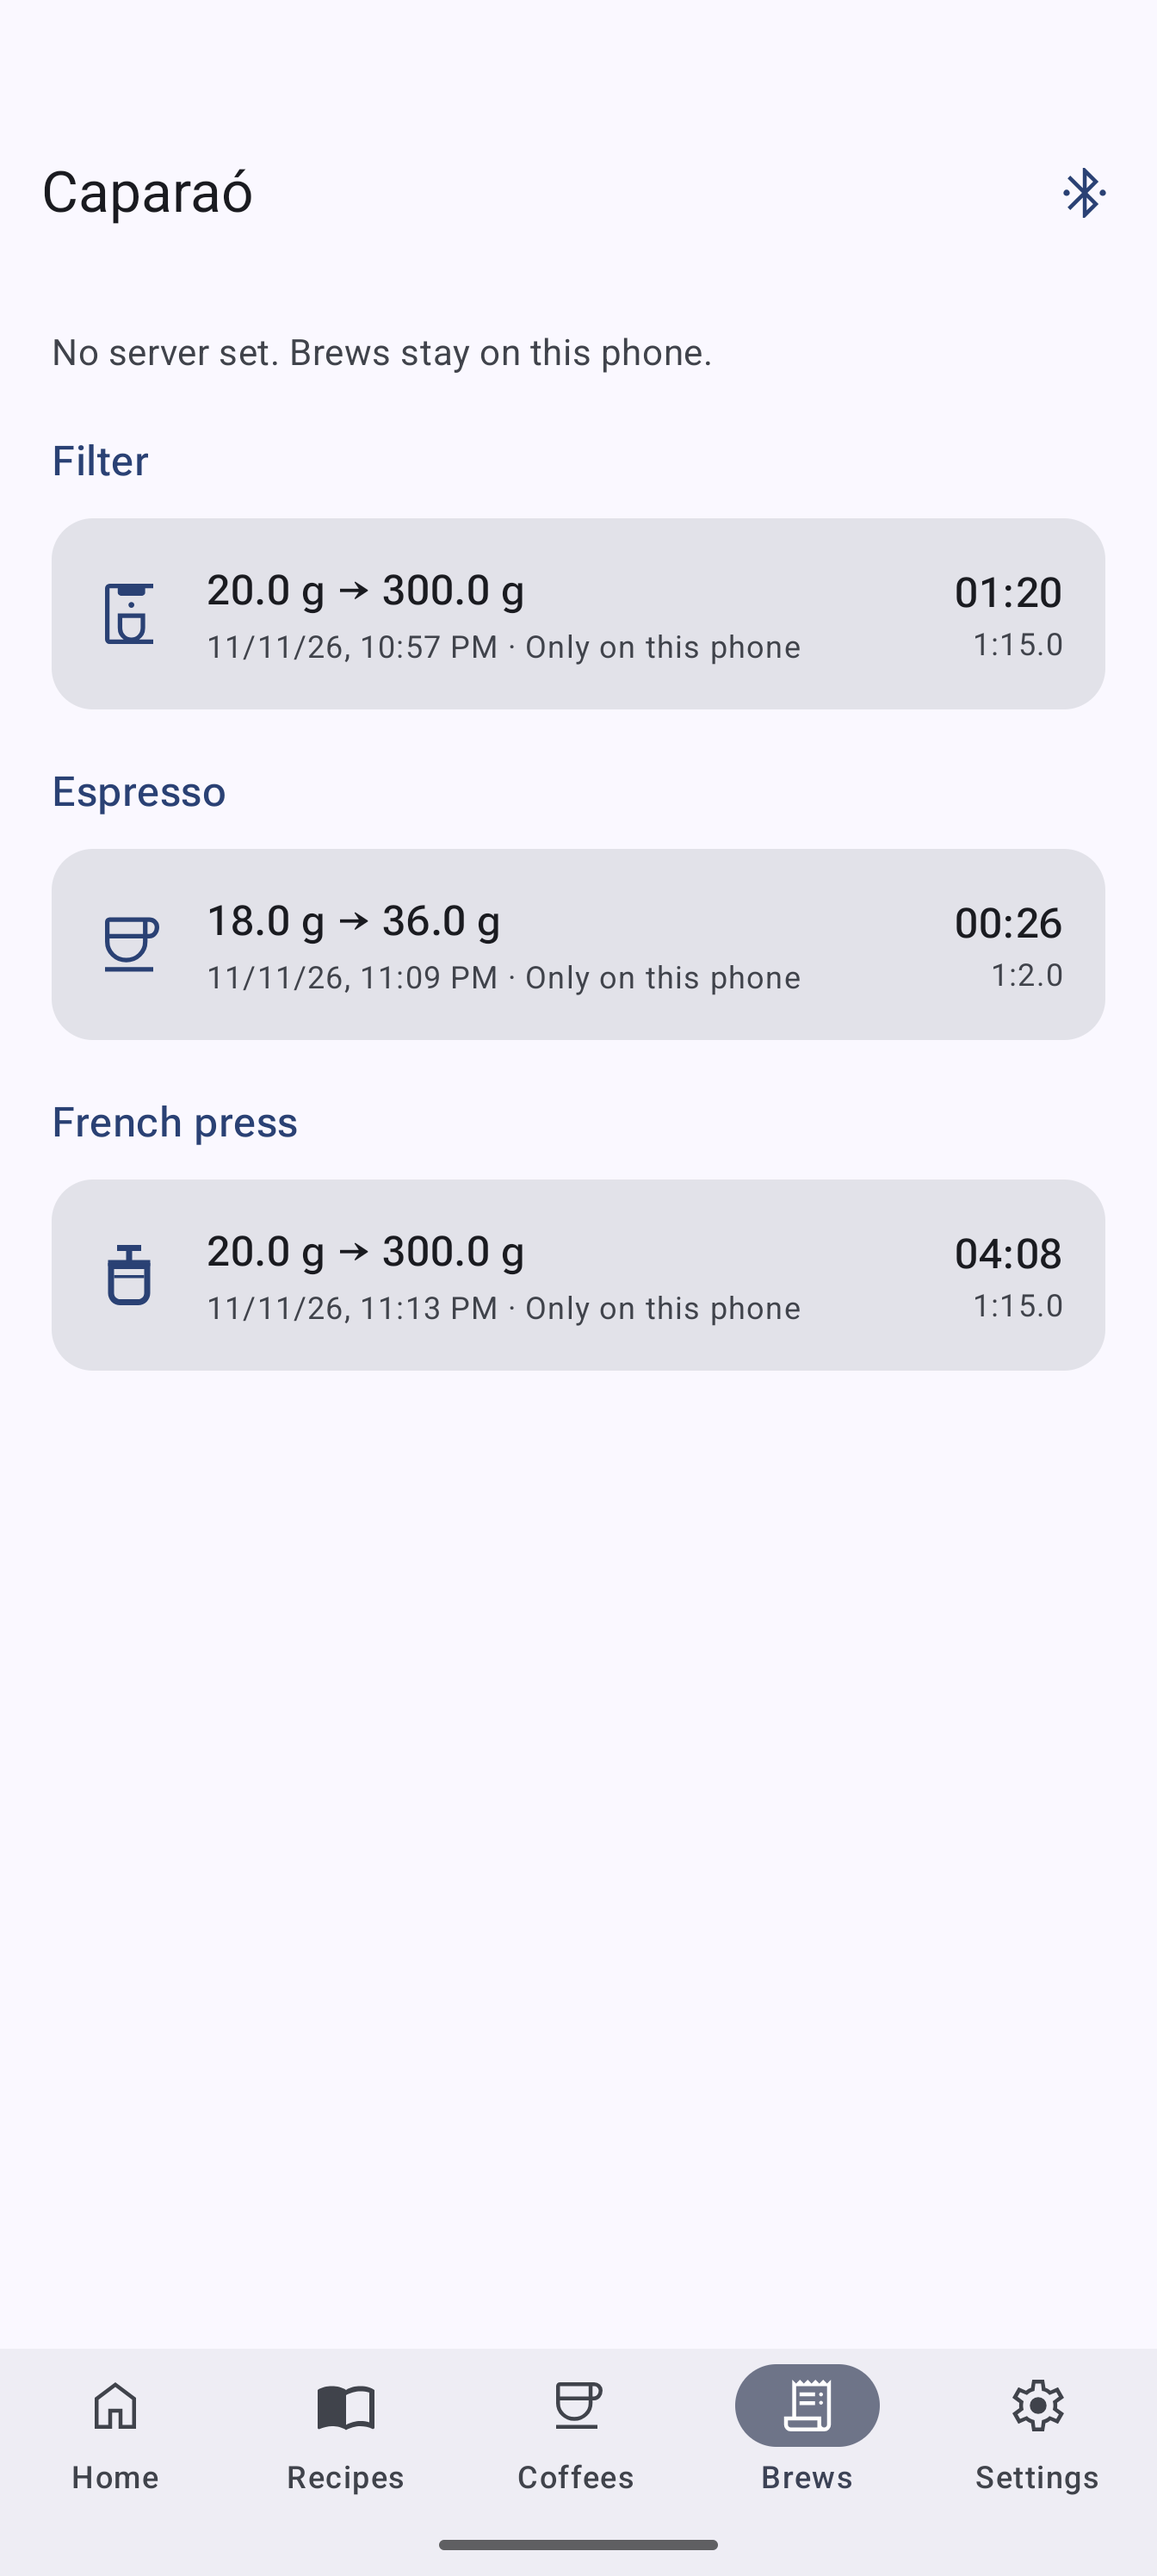
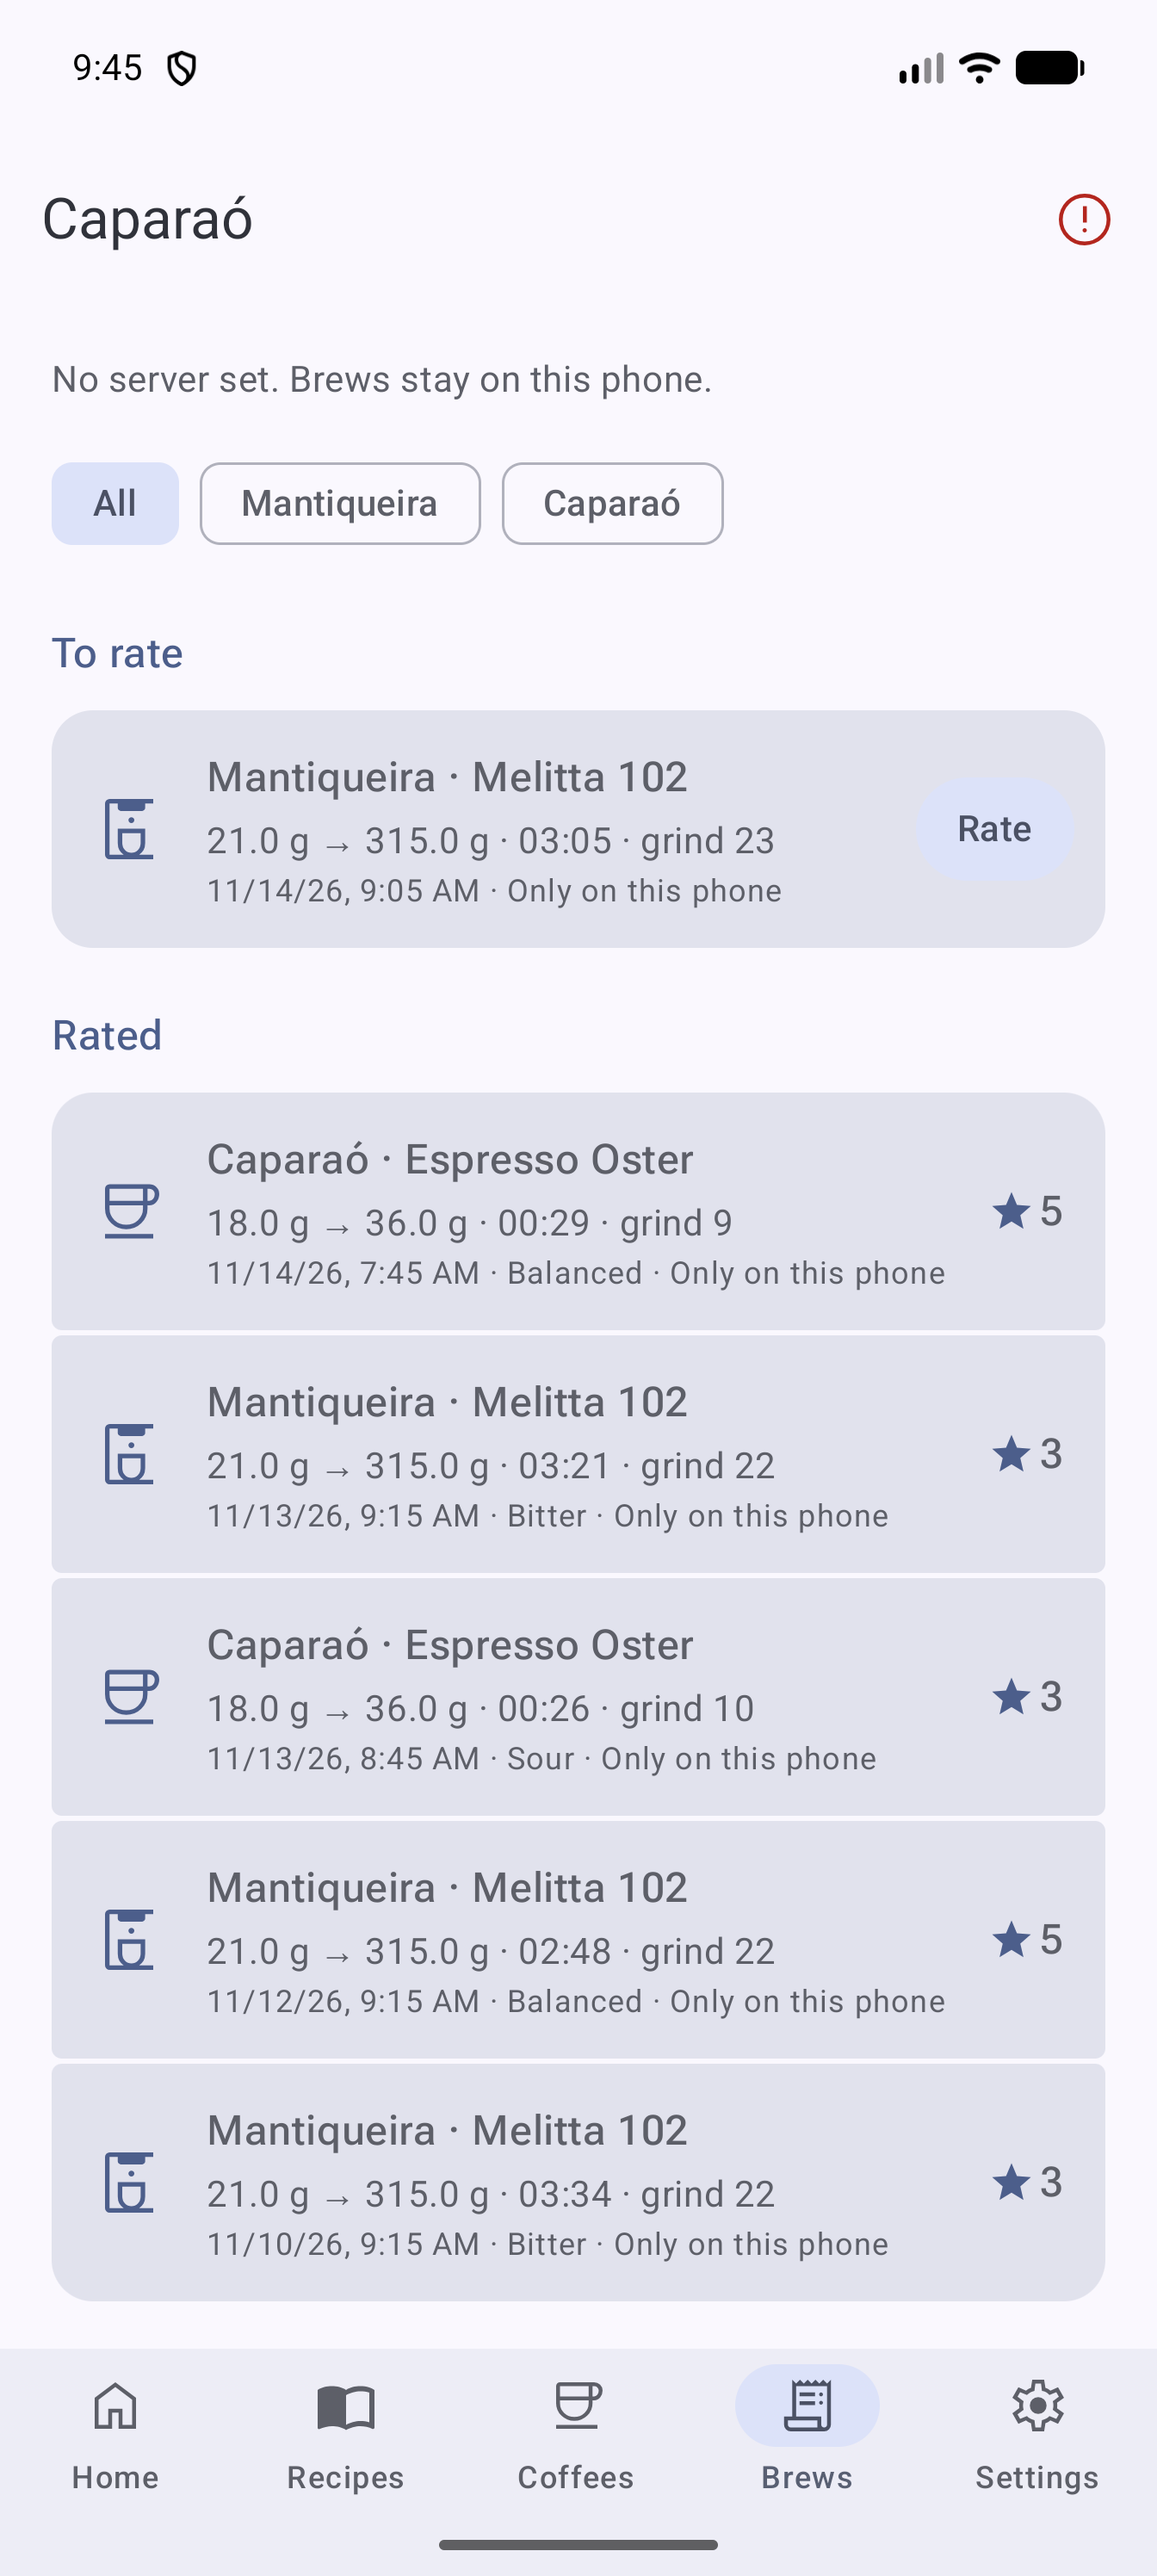
Present the README as the product, with new screenshots
The top tells what the app does for a coffee drinker: dial in each
coffee, brew with a guide, keep what works. New captures cover the
coffee step, rating, suggestion, coffee detail, adjustment, recipe
editor and the Brews list. Architecture moves below Install and
Troubleshooting; the espresso tip names Tare now.

diff --git a/README.md b/README.md
@@ -6,67 +6,67 @@
   <img src="https://img.shields.io/badge/Jetpack%20Compose-4285F4?style=for-the-badge&logo=jetpackcompose&logoColor=white" alt="Jetpack Compose">
 </p>
 
-A small, native Android app for the [Timemore Dot](https://www.timemore.com) coffee scale, with a Wear OS companion.
-It shows weight, flow and timer live, guides espresso, filter and French press brews step by step, records every brew
-with its curves and keeps everything on the phone. Optionally, each brew goes to your own server, and from there to
-Prometheus and Grafana.
+<p align="center"><b>Brew better coffee with the scale you already have.</b></p>
 
-On Google Play and as signed APKs in [Releases](../../releases); [privacy policy](PRIVACY.md). English and Brazilian Portuguese. Android 12+, Wear OS 3+.
+Caparaó turns the [Timemore Dot](https://www.timemore.com) into a brewing guide. It walks you through espresso, filter
+and French press by weight and time, remembers what each coffee needs, and tells you what to change after you taste
+the cup. No account and no ads; your brews stay on your phone unless you connect your own server.
 
-## Features
+<p align="center">
+  <b>Android 12+ · Wear OS 3+ · English and Brazilian Portuguese</b><br>
+  On Google Play and as signed APKs in <a href="../../releases">Releases</a> · <a href="PRIVACY.md">Privacy policy</a>
+</p>
+
+## Dial in every coffee
+
+A new bag rarely brews like the last one. Caparaó keeps the grind, water temperature and dose that work for each
+coffee in each recipe, and moves them one step at a time from what you tasted.
 
 <table>
 <tr>
-<td width="25%" align="center" valign="top"><img src="assets/demo/home-live.png" width="200" alt="Home in Manual mode showing the live weight, timer and flow"><br><b>Manual</b><br>Weight, timer and flow in real time, with tare and timer controls.</td>
-<td width="25%" align="center" valign="top"><img src="assets/demo/dose.png" width="200" alt="Dose and ratio setup for a filter recipe with the water target"><br><b>Dose and ratio</b><br>Pick a recipe or a free brew, weigh the beans (auto tare) and the water follows.</td>
-<td width="25%" align="center" valign="top"><img src="assets/demo/guide-pour.png" width="200" alt="Guided filter pour showing the target weight and flow pace"><br><b>Guided pours</b><br>Bloom, pours and waits by weight and time, with ahead or behind feedback and alerts.</td>
-<td width="25%" align="center" valign="top"><img src="assets/demo/french-press.png" width="200" alt="French press press-and-serve step with the timer and press illustration"><br><b>French press</b><br>Water, steep timer and the press reminder, with a guided finish.</td>
-</tr>
-<tr>
-<td align="center" valign="top"><img src="assets/demo/espresso-live.png" width="200" alt="Espresso extracting with its yield, ratio and timer"><br><b>Automatic espresso</b><br>Tares on the cup, starts on the first drop and stops when the flow does.</td>
-<td align="center" valign="top"><img src="assets/demo/data.png" width="200" alt="Saved espresso details with the weight and flow chart"><br><b>History and charts</b><br>Weight and flow curves for every brew.</td>
-<td align="center" valign="top"><img src="assets/demo/recipes.png" width="200" alt="Recipe list with Filter, Espresso and Press recipes"><br><b>Recipes</b><br>Built-in espresso, V60, Melitta and French press recipes, and your own with dose, ratio, grind, temperature and steps.</td>
-<td align="center" valign="top"><img src="assets/demo/brews.png" width="200" alt="Brew list with saved brews and their upload status"><br><b>Brews</b><br>Every brew with its dose, yield, ratio and upload status; no server needed.</td>
+<td width="25%" align="center" valign="top"><img src="assets/demo/coffee-step.png" width="200" alt="Coffee step of a filter brew: the picked bag shows its adjusted grind and dose beside the recipe's values"><br><b>Pick the coffee</b><br>Its grind, temperature and dose come with it. One tap brews as the recipe says instead.</td>
+<td width="25%" align="center" valign="top"><img src="assets/demo/rating.png" width="200" alt="How was it? screen with the taste choice, the bag's tasting notes and the star rating"><br><b>Rate when you taste it</b><br>Sour, balanced or bitter, which of the bag's notes showed up, and a rating. A quiet reminder asks a few minutes after the brew.</td>
+<td width="25%" align="center" valign="top"><img src="assets/demo/suggestion.png" width="200" alt="Suggestion screen proposing a coarser grind, with the brew time against the target and the taste as reasons"><br><b>Get one clear change</b><br>Grind or temperature, one step, with the reason. Save it for that coffee or leave it.</td>
+<td width="25%" align="center" valign="top"><img src="assets/demo/coffee-detail.png" width="200" alt="Coffee detail with the average rating, the taste it tends to, the notes found and its adjustments per recipe"><br><b>See how it is going</b><br>Average rating, the taste it tends to, how often each note showed up, and its adjustments.</td>
 </tr>
 </table>
 
-- **On the watch:** the Wear OS app mirrors the scale and the current pour, with the guided step and pace, tare and
-  timer buttons, step vibration and a finish alert.
-- **Coffee bags:** name, roaster, origin and process, roast date, weight, notes and a finished flag; the brew notes
-  suggest open bags first.
+## Brew with a guide
+
+<table>
+<tr>
+<td width="25%" align="center" valign="top"><img src="assets/demo/home-live.png" width="200" alt="Home in Manual mode showing the live weight, timer and flow"><br><b>Live scale</b><br>Weight, timer and flow in real time, with tare and timer controls.</td>
+<td width="25%" align="center" valign="top"><img src="assets/demo/guide-pour.png" width="200" alt="Guided filter pour showing the target weight and flow pace"><br><b>Guided pours</b><br>Bloom, pours and waits by weight and time, with ahead or behind feedback and alerts.</td>
+<td width="25%" align="center" valign="top"><img src="assets/demo/espresso-live.png" width="200" alt="Espresso extracting with its yield, ratio and timer"><br><b>Automatic espresso</b><br>Tares on the cup, starts on the first drop and stops when the flow does.</td>
+<td width="25%" align="center" valign="top"><img src="assets/demo/french-press.png" width="200" alt="French press press-and-serve step with the timer and press illustration"><br><b>French press</b><br>Water, steep timer and the press reminder, with a guided finish.</td>
+</tr>
+</table>
+
+## Keep what works
+
+<table>
+<tr>
+<td width="25%" align="center" valign="top"><img src="assets/demo/recipe-editor.png" width="200" alt="Recipe editor with dose, ratio, grind, temperature, ideal time and a timeline of the steps"><br><b>Your recipes</b><br>Built-in espresso, V60, Melitta and French press recipes, and your own, with a timeline of the steps.</td>
+<td width="25%" align="center" valign="top"><img src="assets/demo/adjustment.png" width="200" alt="Adjustment screen for one coffee and recipe, with grind, temperature and dose steppers and the history of changes"><br><b>Every change, explained</b><br>What each coffee changes in a recipe, and where each change came from.</td>
+<td width="25%" align="center" valign="top"><img src="assets/demo/brews.png" width="200" alt="Brews list with a brew to rate on top and rated brews showing coffee, recipe, grind, taste and stars"><br><b>Every brew</b><br>What is waiting for a rating first, then coffee, recipe, grind, taste and stars. Filter by coffee.</td>
+<td width="25%" align="center" valign="top"><img src="assets/demo/data.png" width="200" alt="Saved espresso details with the weight and flow chart"><br><b>Curves</b><br>Weight and flow curves for every brew.</td>
+</tr>
+</table>
+
+## And also
+
+- **On your wrist:** the Wear OS app mirrors the scale and the current pour, with the step, the pace, tare and timer
+  buttons, a vibration on each step and a finish alert.
+- **Coffee shelf:** bags with roaster, origin, roast date, what is left and a tasting profile.
 - **Home-screen widget:** the last brew, with a shortcut to start the next one.
-- **Offline-first:** no account and no server needed. Sync is an add-on.
-- **Your data:** brews go to any server that follows the [exporter's upload contract](https://github.com/MateuxLucax/timemore-dot-prometheus-exporter/blob/main/testdata/contract/README.md), such as
-  [timemore-dot-prometheus-exporter](https://github.com/MateuxLucax/timemore-dot-prometheus-exporter).
-- **Material 3 Expressive:** Roboto Flex, Material You colors in light and dark themes.
+- **Offline first:** no account and no server. The rating reminder is a local notification.
+- **Your data, your server:** optionally, each brew goes to any server that follows the
+  [exporter's upload contract](https://github.com/MateuxLucax/timemore-dot-prometheus-exporter/blob/main/testdata/contract/README.md),
+  such as [timemore-dot-prometheus-exporter](https://github.com/MateuxLucax/timemore-dot-prometheus-exporter), and from
+  there to Prometheus and Grafana. Coffees, adjustments, taste and tasting notes never leave the phone.
+- **Material 3 Expressive:** Roboto Flex and Material You colors, in light and dark.
 
 The screens above are emulator captures with a scripted scale standing in for the Dot.
-
-## Architecture
-
-```mermaid
-flowchart LR
-    dot["Timemore Dot<br/>BLE"] -->|"weight, flow, timer"| app["Caparaó<br/>phone app"]
-    app -->|"tare, timer, battery"| dot
-    app <-->|"Data Layer"| watch["Wear OS<br/>companion"]
-    app --> room[("Room<br/>brews, curves, recipes")]
-    room -.->|"optional: POST /api/v1/brews"| srv["your server<br/>(exporter)"]
-    srv -.-> prom[("Prometheus")] -.-> graf["Grafana"]
-```
-
-- **Kotlin, Jetpack Compose and Material 3**, one ViewModel per screen and manual dependency injection.
-- **Layers, one way:** `model ← data ← brew ← sync ← ui`, enforced by a test.
-  - `data`: the Dot's BLE protocol (frame decoder, CRC, handshake, reconnect with backoff), Room storage, the upload client.
-  - `brew`: pure brew logic fed with timed readings: espresso and filter detectors, flow smoothing, French press
-    finish tracking and recipe step tracking.
-  - `sync`: WorkManager uploads with retries and readable errors.
-  - `ui`: onboarding, home, guided brew, recipes, brews and settings.
-- **Modules:** `app` (phone), `wear` (watch) and `wearlink` (shared watch snapshot).
-- **Tested against real data:** detectors replay sessions recorded from a real Dot; screens are covered by Robolectric
-  tests; `scripts/e2e.sh` runs the app against the pinned exporter on an emulator.
-
-Decisions and pending work live in the [issues](https://github.com/MateuxLucax/caparao/issues), where every decision
-lives.
 
 ## Install
 
@@ -96,13 +96,39 @@ optionally asks for your server's URL and token.
 | "Scale not found" | Turn the Dot on and bring it closer. It connects to one phone at a time: close the Timemore app or another phone using it. |
 | "Scale won't pair" | The Dot remembers one phone. Hold its button (under the scale) until the light blinks fast, then tap Retry. |
 | "Bluetooth not allowed" | App settings → Permissions → Nearby devices → Allow. |
-| The espresso doesn't start | Put the cup down and leave it still for a second: the app tares, then waits for the first drops. If the cup was already tared, tap "Cup's on". |
+| The espresso doesn't start | Put the cup down and leave it still for a second: the app tares, then waits for the first drops. If nothing happens after a few seconds, tap "Tare now". |
 | The espresso doesn't end | It ends about 4 s after the weight stops rising. Tap Stop to end it yourself. |
 | Brews stay "Only on this phone" | Brews tab shows the last upload error and its fix. Test the server in Settings. |
 | Server on your home network times out | Android 17 needs the local network permission: allow it when the app asks, or in App settings → Permissions → Nearby devices. |
 | "Wrong token" | The token in Settings must match the server's `AUTH_TOKEN`. |
 
 The connection screen has **Copy debug log** for bug reports; it never contains the scale's address or name.
+
+## Architecture
+
+```mermaid
+flowchart LR
+    dot["Timemore Dot<br/>BLE"] -->|"weight, flow, timer"| app["Caparaó<br/>phone app"]
+    app -->|"tare, timer, battery"| dot
+    app <-->|"Data Layer"| watch["Wear OS<br/>companion"]
+    app --> room[("Room<br/>brews, curves, recipes")]
+    room -.->|"optional: POST /api/v1/brews"| srv["your server<br/>(exporter)"]
+    srv -.-> prom[("Prometheus")] -.-> graf["Grafana"]
+```
+
+- **Kotlin, Jetpack Compose and Material 3**, one ViewModel per screen and manual dependency injection.
+- **Layers, one way:** `model ← data ← brew ← sync ← ui`, enforced by a test.
+  - `data`: the Dot's BLE protocol (frame decoder, CRC, handshake, reconnect with backoff), Room storage, the upload client.
+  - `brew`: pure brew logic fed with timed readings: espresso and filter detectors, flow smoothing, French press
+    finish tracking and recipe step tracking.
+  - `sync`: WorkManager uploads with retries and readable errors.
+  - `ui`: onboarding, home, guided brew, recipes, brews and settings.
+- **Modules:** `app` (phone), `wear` (watch) and `wearlink` (shared watch snapshot).
+- **Tested against real data:** detectors replay sessions recorded from a real Dot; screens are covered by Robolectric
+  tests; `scripts/e2e.sh` runs the app against the pinned exporter on an emulator.
+
+Decisions and pending work live in the [issues](https://github.com/MateuxLucax/caparao/issues), where every decision
+lives.
 
 ## Development
 
